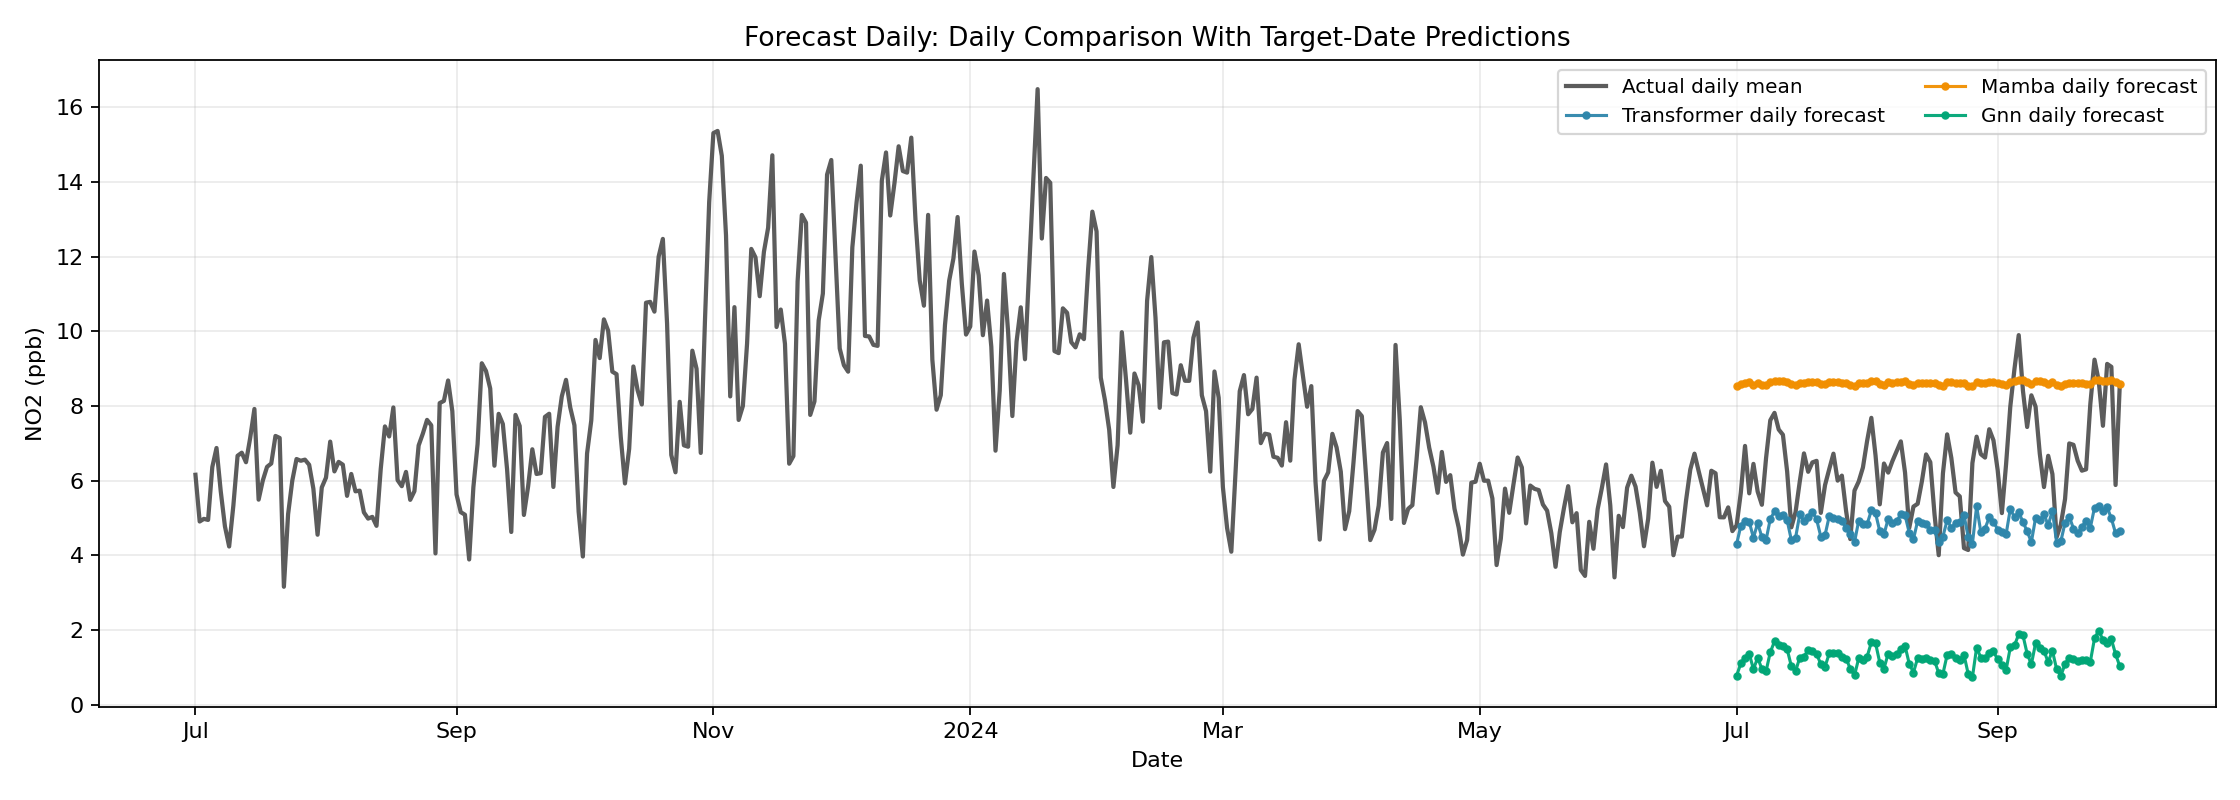
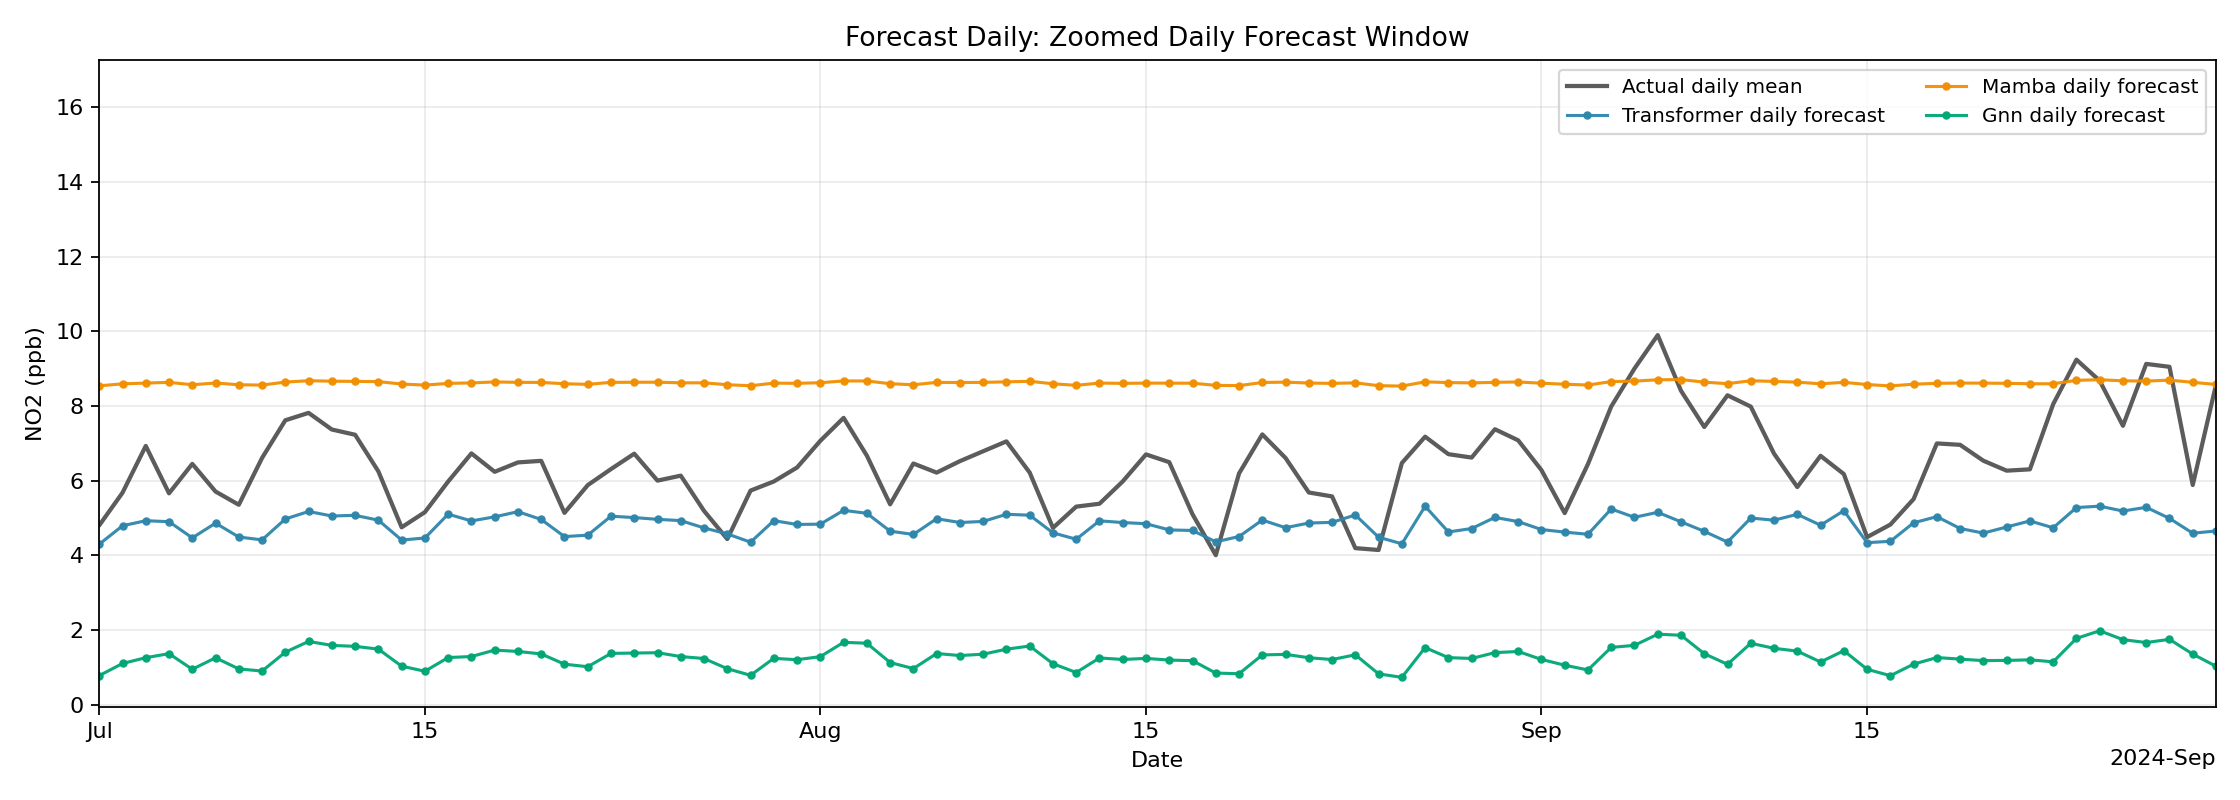
forecast_daily: zoom daily comparison plots to prediction window

diff --git a/forecast_daily/generate_results.py b/forecast_daily/generate_results.py
@@ -202,9 +202,26 @@ def save_plots(
     for name, dfp in merged_preds.items():
         tmp = dfp.copy()
         tmp["date"] = pd.to_datetime(tmp["date"])
+        tmp = tmp.sort_values("date").drop_duplicates(subset=["date"]).reset_index(drop=True)
+        tmp["pred_ppb"] = pd.to_numeric(tmp["pred_ppb"], errors="coerce")
         # Keep predictions only on true target dates; all earlier/non-target days stay NaN.
-        aligned = actual_daily[["date"]].merge(tmp[["date", "pred_ppb"]], on="date", how="left")
+        aligned = actual_daily[["date"]].merge(
+            tmp[["date", "pred_ppb"]],
+            on="date",
+            how="left",
+            validate="one_to_one",
+        )
+        # Safety check: aligned prediction series must exactly follow full actual timeline.
+        if len(aligned) != len(actual_daily) or not aligned["date"].equals(actual_daily["date"]):
+            raise ValueError(
+                f"Aligned prediction timeline mismatch for {name}: "
+                f"aligned_rows={len(aligned)} actual_rows={len(actual_daily)}"
+            )
         aligned_preds[name] = aligned
+
+    # Zoom all daily time-series charts to the prediction horizon (typically ~3 months).
+    pred_start = min(df.loc[df["pred_ppb"].notna(), "date"].min() for df in aligned_preds.values())
+    pred_end = max(df.loc[df["pred_ppb"].notna(), "date"].max() for df in aligned_preds.values())
 
     # 1) Combined test time-series plot
     plt.figure(figsize=(13, 5))
@@ -218,11 +235,12 @@ def save_plots(
             alpha=0.95,
             color=color_map.get(name),
         )
-    plt.title("Forecast Daily: Full Timeline (Actual) With Date-Aligned Forecasts")
+    plt.title("Forecast Daily: Predicted Period (Daily Actual vs Date-Aligned Forecasts)")
     plt.xlabel("Date")
     plt.ylabel("NO2 (ppb)")
     plt.grid(alpha=0.25)
     plt.legend()
+    plt.xlim(pred_start, pred_end)
     plt.tight_layout()
     plt.savefig(plots_dir / "timeseries_all_models.png", dpi=160)
     plt.close()
@@ -250,11 +268,12 @@ def save_plots(
             color=color_map.get(name),
         )
 
-    ax.set_title("Forecast Daily: Daily Comparison With Target-Date Predictions")
+    ax.set_title("Forecast Daily: Zoomed Daily Forecast Window")
     ax.set_xlabel("Date")
     ax.set_ylabel("NO2 (ppb)")
     ax.grid(alpha=0.25)
     ax.legend(ncol=2, fontsize=9)
+    ax.set_xlim(pred_start, pred_end)
     ax.xaxis.set_major_locator(mdates.AutoDateLocator(minticks=6, maxticks=12))
     ax.xaxis.set_major_formatter(mdates.ConciseDateFormatter(ax.xaxis.get_major_locator()))
     plt.tight_layout()
